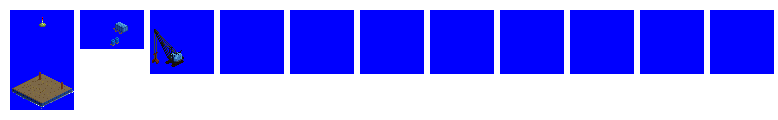
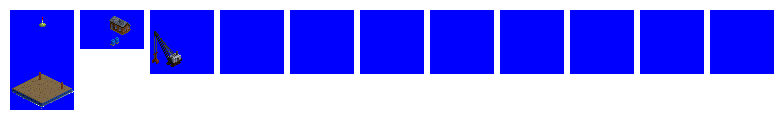
Feature: pre-1906 graphics for Dredging Site (DanMacK)

Changed region(s): [[0.1234, 0.125, 0.2468, 0.55]]

diff --git a/src/industries/dredging_site.py b/src/industries/dredging_site.py
@@ -39,8 +39,7 @@ industry = Industry(id='dredging_site',
                     nearby_station_name='string(STR_STATION, string(STR_TOWN), string(STR_STATION_WATER))',
                     fund_cost_multiplier='180',
                     closure_msg='TTD_STR_NEWS_INDUSTRY_CLOSURE_SUPPLY_PROBLEMS',
-                    graphics_change_dates = [1945],
-                    )
+                    graphics_change_dates = [1906, 1945])
 
 industry.economy_variations['FIRS'].enabled = True
 industry.economy_variations['BASIC_TEMPERATE'].enabled = True
